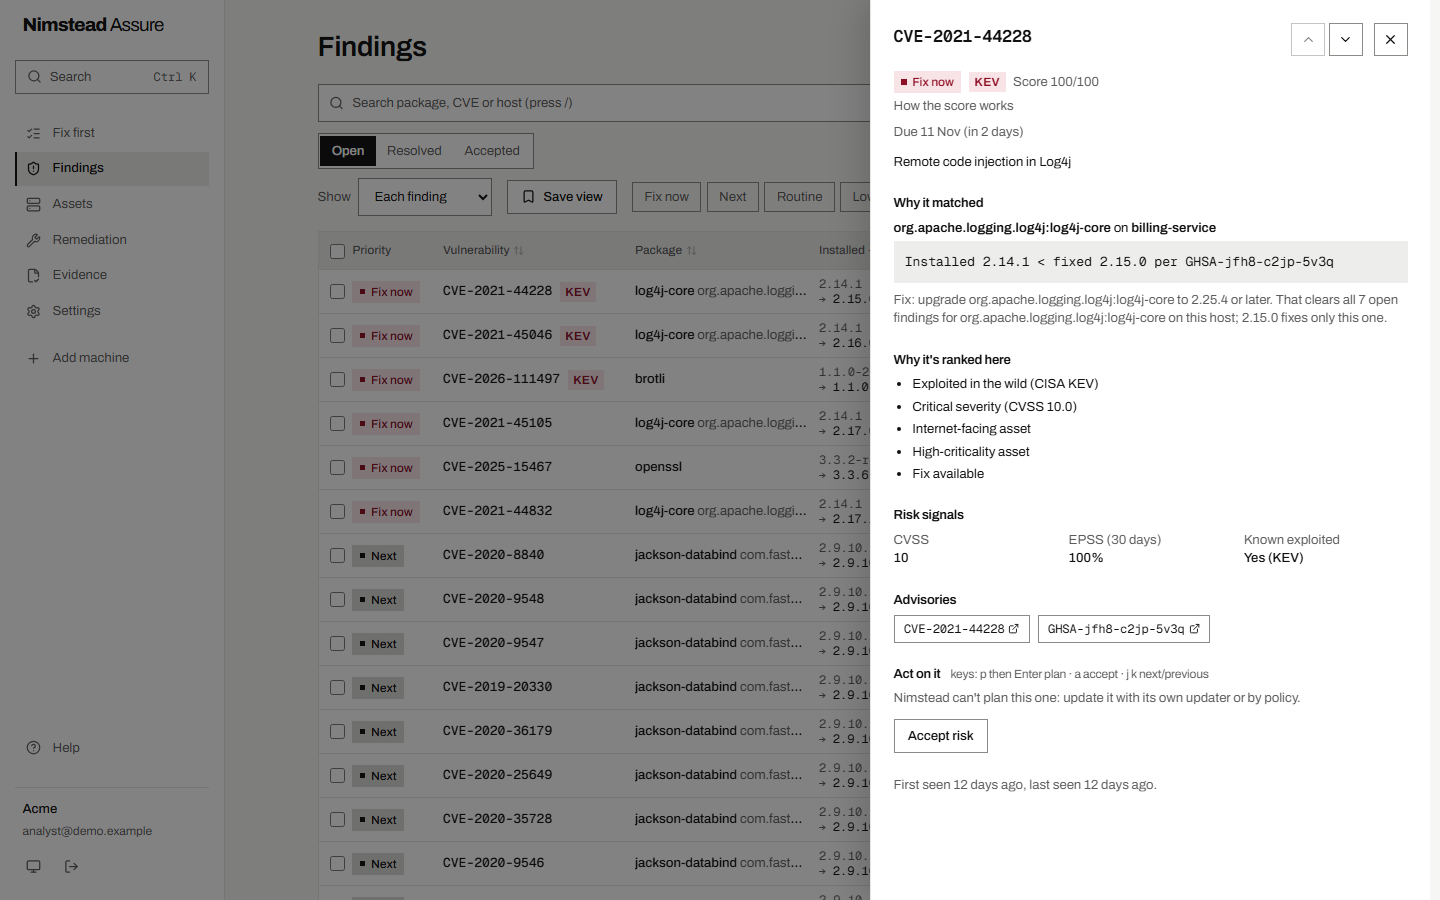
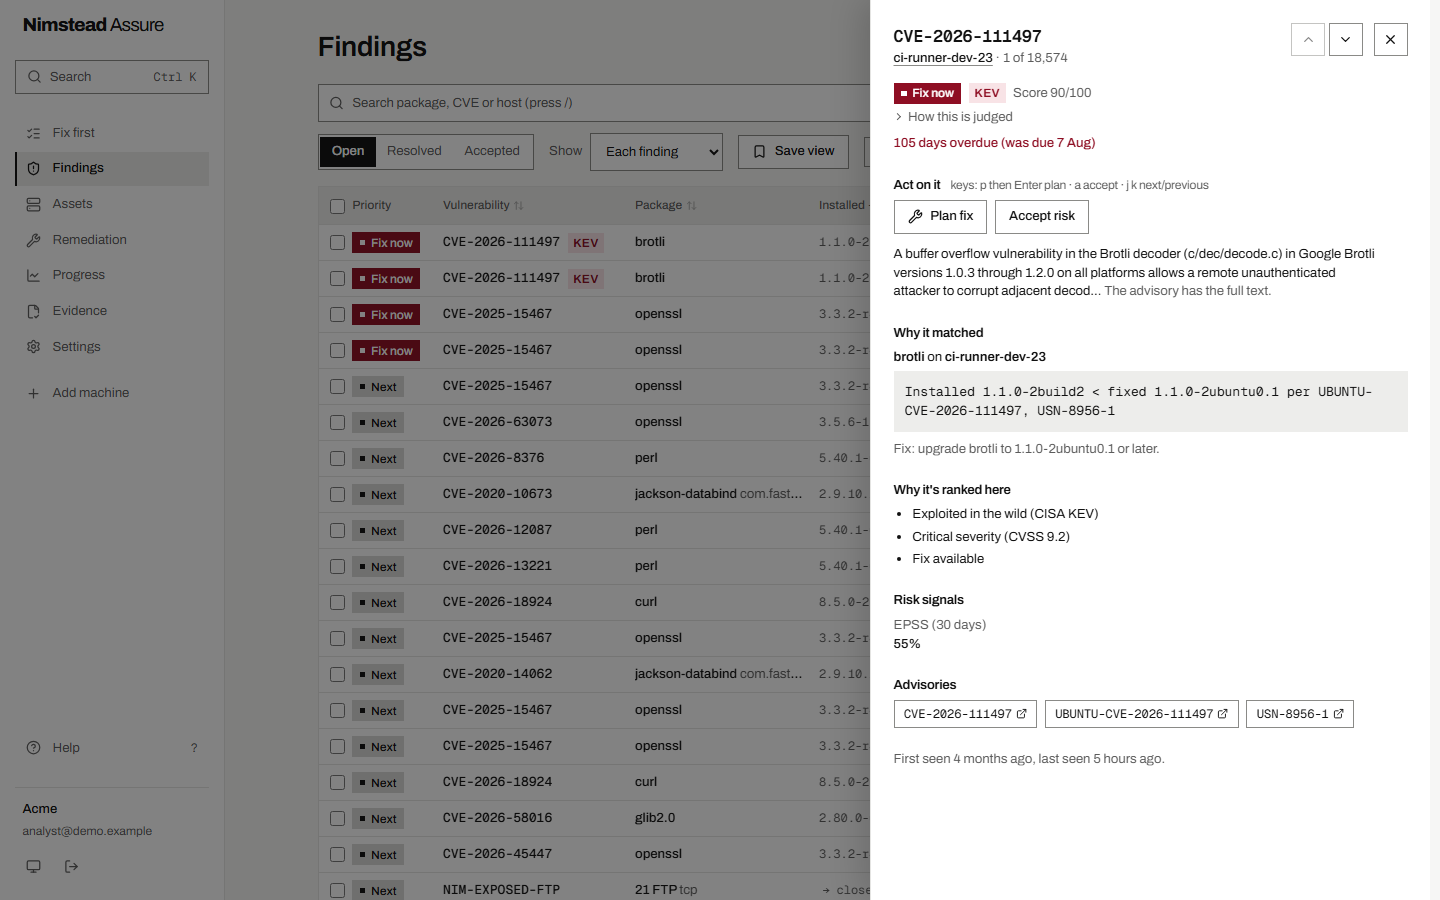
README: the 0.11.0 fleet demo, Progress first, owners and devices
Screenshots now come from the 206-machine demo on 0.11.0: its five real
hosts' inventories cloned, 200 devices with no agent, owners by role and
120 days of simulated history (said so in the README). New: Progress in
full and at phone width in dark mode, devices with no agent; every alt
text names what the shot shows. Early-access note says v0.11.

sandbox/progress_demo.py: owners by role (web/api -> Platform, billing/auth
-> Payments, ...), devices and a few dev machines unowned; --to-now moves
the demo's own times (reports, devices, jobs) to today and spreads
reporting machines over the last few hours; a finding's last-seen is its
machine's last report. web/scripts/readme-shots.mjs shoots the fleet demo
(NIMSTEAD_DEMO_LOGIN names the login file).

diff --git a/sandbox/progress_demo.py b/sandbox/progress_demo.py
@@ -3,29 +3,45 @@
 The demo's findings are real (real inventories, real advisories), but they were all detected in one sitting, so every
 line on Progress is flat. This replays a simulated history over them: each finding is detected at some point in the
 last DAYS days (most at the first enrolment), fixed after a time that depends on its priority (or not yet), and a few
-come back or are accepted. Owners go on the assets. The org's ledger is rebuilt in time order with a valid hash chain,
-and every finding row ends in the state its history says, so Progress, Findings and the evidence pack agree.
+come back or are accepted. Owners go on the machines by their role (`web-prod-02` is Platform's), a few dev machines
+and the devices with no agent left unowned. The org's ledger is rebuilt in time order with a valid hash chain, and every
+finding row ends in the state its history says, so Progress, Findings and the evidence pack agree. --to-now first moves
+the demo's own times (reports, devices, jobs) forward so its newest report is minutes old, keeping the gaps between them.
 
 The history is simulated: say so wherever its screenshots are shown. Run it on a copy, never a real server's database,
 and point the server at a fresh checkpoint directory (the old checkpoints sign the old chain).
 
-    cd api && uv run python ../sandbox/progress_demo.py sqlite:///path/to/copy.db [--days 120] [--seed 146]
+    cd api && uv run python ../sandbox/progress_demo.py sqlite:///path/to/copy.db [--days 120] [--seed 146] [--to-now]
 """
 
 import argparse
 import random
 from datetime import UTC, datetime, timedelta
 
-from sqlalchemy import delete, select
+from sqlalchemy import delete, func, select
 from sqlalchemy.orm import sessionmaker
 
-from nimstead.db import Asset, Finding, LedgerEntry, Org, make_engine
+from nimstead.db import Asset, Container, Finding, LedgerEntry, Neighbour, Org, RemediationJob, ScanRecord, make_engine
 from nimstead.evidence import GENESIS
 from nimstead.verify_pack import entry_hash
 
-TEAMS = ["Payments", "Platform", "IT", "Data"]
-FIXED_SHARE = {"fix-now": 0.96, "next": 0.88, "planned": 0.65, "low": 0.4}  # ever fixed
-MEAN_DAYS = {"fix-now": 6, "next": 14, "planned": 30, "low": 55}  # how long a fix takes, on average
+TEAMS = ["Payments", "Platform", "IT", "Data"]  # for names with no role below, in turn
+ROLES = {"web": "Platform", "api": "Platform", "edge": "Platform", "cache": "Platform", "queue": "Platform", "worker": "Platform",
+         "billing": "Payments", "auth": "Payments", "db": "Data", "files": "Data", "mail": "IT Operations", "vpn": "IT Operations",
+         "bastion": "IT Operations", "monitor": "IT Operations", "ci": "Developer Tools", "build": "Developer Tools"}
+# the demo's own times, moved together by --to-now (findings and the ledger are rebuilt from the history instead)
+SHIFT = [(Asset, ("first_seen", "last_seen", "last_inventory_at", "verified_at", "silent_alerted_at")),
+         (Neighbour, ("first_seen", "last_seen")), (Container, ("first_seen", "last_seen")),
+         (RemediationJob, ("created", "updated")), (ScanRecord, ("created",))]
+
+
+def owner_of(asset: Asset, i: int) -> str | None:
+    """A machine's team by the role in its name; a few dev machines and every device with no agent have none."""
+    if asset.kind == "device" or ("-dev-" in asset.hostname and i % 3 == 0):
+        return None
+    return ROLES.get(asset.hostname.split("-")[0]) or TEAMS[i % len(TEAMS)]
+FIXED_SHARE = {"fix-now": 0.96, "next": 0.9, "planned": 0.78, "low": 0.6}  # ever fixed: a programme paying down its backlog
+MEAN_DAYS = {"fix-now": 6, "next": 12, "planned": 24, "low": 40}  # how long a fix takes, on average
 
 
 def iso(t: datetime) -> str:
@@ -35,7 +51,7 @@ def iso(t: datetime) -> str:
 def simulate(rng: random.Random, priority: str, now: datetime, days: int) -> list[tuple[datetime, str]]:
     """One finding's events, in time order, all before now."""
     start = now - timedelta(days=days)
-    if rng.random() < 0.7:  # found at the first enrolment
+    if rng.random() < 0.78:  # found at the first enrolment
         t = start + timedelta(hours=rng.uniform(0, 48))
     else:  # found later: new advisories, new machines, new software
         t = start + timedelta(days=rng.uniform(2, days - 0.5))
@@ -59,13 +75,26 @@ def main() -> None:
     ap.add_argument("db", help="SQLAlchemy URL of a copy of a demo database with one organisation")
     ap.add_argument("--days", type=int, default=120)
     ap.add_argument("--seed", type=int, default=146)
+    ap.add_argument("--to-now", action="store_true", help="move the demo's report, device and job times so its newest report is minutes old")
     a = ap.parse_args()
     rng = random.Random(a.seed)  # noqa: S311 - a fixed seed, so the screenshots can be made again
     s = sessionmaker(make_engine(a.db))()
     (org_id,) = s.execute(select(Org.id)).one()
     now = datetime.now(UTC).replace(tzinfo=None) - timedelta(minutes=5)
+    if a.to_now and (newest := s.scalar(select(func.max(Asset.last_seen)).where(Asset.org_id == org_id, Asset.kind == "host"))):
+        delta = now - newest
+        for model, cols in SHIFT:  # in Python: SQLite keeps datetimes as text, so SQL can't add an interval to them
+            for row in s.scalars(select(model)):
+                for col in cols:
+                    if (v := getattr(row, col)) is not None:
+                        setattr(row, col, v + delta)
+        # agents report every 6 hours: a machine that was reporting reported in the last few hours, not all at one instant
+        for h in s.scalars(select(Asset).where(Asset.org_id == org_id, Asset.kind == "host", Asset.last_seen > now - timedelta(hours=14))):
+            h.last_seen = h.last_inventory_at = now - timedelta(hours=rng.uniform(0.05, 5.5))
+        print(f"moved the demo's times forward by {delta}")
     for i, asset in enumerate(s.scalars(select(Asset).where(Asset.org_id == org_id).order_by(Asset.hostname))):
-        asset.owner = None if i % 7 == 6 else TEAMS[i % len(TEAMS)]  # a few left without an owner
+        asset.owner = owner_of(asset, i)
+    seen = dict(s.execute(select(Asset.id, Asset.last_seen).where(Asset.org_id == org_id)).all())
     rows = []
     for f in s.scalars(select(Finding).where(Finding.org_id == org_id)):
         events = simulate(rng, f.priority if f.priority in FIXED_SHARE else "low", now, a.days)
@@ -78,6 +107,7 @@ def main() -> None:
             elif kind == "finding_accepted":
                 state = "accepted"
         f.status, f.first_seen, f.resolved_at = state, opened, resolved
+        f.last_seen = resolved if resolved else max(opened, seen.get(f.asset_id) or now)  # still there at its machine's last report
         f.accepted_until = now + timedelta(days=60) if state == "accepted" else None
         data = {"host": "", "vuln_id": f.vuln_id, "package": f.package, "installed_version": f.installed_version,
                 "fixed_version": f.fixed_version, "priority": f.priority}

diff --git a/README.md b/README.md
@@ -10,12 +10,12 @@
   <img alt="PostgreSQL 17" src="https://img.shields.io/badge/postgresql-17-111111">
 </p>
 
-<p align="center"><img src="docs/images/home-1440.png" alt="Fix first: 1,183 open findings across five real Linux machines and an application, two fixes that need a look, and the upgrades that clear the most risk" width="900"></p>
+<p align="center"><img src="docs/images/home-1440.png" alt="Fix first on a 206-machine fleet: 18,574 open findings, 1,783 overdue, three fixes that didn't work, and the upgrades that clear the most risk, the first a known-exploited brotli fix" width="900"></p>
 
-Nimstead Assure scans your Linux and Windows machines and your applications' dependencies for known vulnerabilities, tells you which few upgrades clear the most real risk, can apply them for you with automatic rollback, and keeps a tamper-evident record your auditor can check without asking us.
+Nimstead Assure scans your Linux and Windows machines, their containers and your applications' dependencies for known vulnerabilities, tells you which few upgrades clear the most real risk, can apply them for you with automatic rollback, shows whether your risk is going down and which team is behind, and keeps a tamper-evident record your auditor can check without asking us.
 
 > [!NOTE]
-> **Early access (v0.7).** Everything below works and is proven on real systems, but expect rough edges and breaking changes before 1.0. Until a release is promoted to the stable channel (none has been yet), set `NIMSTEAD_UPDATE_CHANNEL=preview` (or `beta` once one exists) in `.env` so your server hears about updates. Run it on test machines first; automated fixes stay limited to machines you enrol as test machines until you turn them on for production. Tell us what breaks: [open an issue](https://github.com/Nimstead/assure/issues/new/choose) or email dev@nimstead.systems.
+> **Early access (v0.11).** Everything below works and is proven on real systems, but expect rough edges and breaking changes before 1.0. Until a release is promoted to the stable channel (none has been yet), set `NIMSTEAD_UPDATE_CHANNEL=preview` (or `beta` once one exists) in `.env` so your server hears about updates. Run it on test machines first; automated fixes stay limited to machines you enrol as test machines until you turn them on for production. Tell us what breaks: [open an issue](https://github.com/Nimstead/assure/issues/new/choose) or email dev@nimstead.systems.
 
 ## What it does
 
@@ -30,25 +30,25 @@ Nimstead Assure scans your Linux and Windows machines and your applications' dep
 - **Shows whether it's working, and who is behind.** Give each machine an owner (or let its install command do it), and Progress shows day by day whether overdue, fix-now and open findings are falling, whether fixes keep up with what's found, and which team has the most overdue. It's rebuilt from the same signed ledger the evidence packs use, so its numbers match theirs, and a weekly summary can go to Slack or email.
 - **Watches your edge, and what's on your network.** Internet hosts you prove you own (DNS TXT) are checked for exposed risky services, weak TLS, source and config files served by mistake, and known-bad service versions, and a finding there closes only when the scan proves it fixed. Devices on your networks with no agent are listed by maker, from your machines' own network tables, without sending them anything; a machine you opt in locally can check its neighbours for exposed services too.
 - **Keeps itself current, safely.** Agents update themselves only from releases signed by the Nimstead release key, which your server never holds, so a compromised server can't push code to your machines. The server tells you when a release is out, and `deploy/update.sh` installs it with a database backup and automatic rollback. Machines that stop reporting are flagged.
-- **Fits your organisation.** OIDC single sign-on with verified domains, admin and read-only roles, webhook and email alerts for failed fixes and new urgent findings, keys in Vault and checkpoints in object-locked S3.
+- **Fits your organisation.** An owner (team) on every asset, set once on the install command; OIDC single sign-on with verified domains, admin and read-only roles, webhook and email alerts for failed fixes and new urgent findings, keys in Vault and checkpoints in object-locked S3.
 
-Every screenshot here is from a real run ([`sandbox/demo.py`](sandbox/demo.py)): five disposable Linux machines (Ubuntu 24.04, Debian 13, AlmaLinux 9, Alpine 3.21) running the real agent, real vulnerability feeds, an application SBOM, and real fixes on those machines. The fleet view below is the same demo grown to 206 machines by cloning those real inventories.
+The screenshots come from a demo built on a real run ([`sandbox/demo.py`](sandbox/demo.py)): five disposable Linux machines (Ubuntu 24.04, Debian 13, AlmaLinux 9, Alpine 3.21) running the real agent against real vulnerability feeds, with real fixes, a real rollback and a fix the dry run refused. It was grown to 206 machines by cloning those real inventories, with 200 devices found in the machines' own network tables. Its curl rollout and its 120 days of history are simulated over those real findings ([`sandbox/progress_demo.py`](sandbox/progress_demo.py)), so Progress has a past to show; everything on screen is the product's own output.
 
-| A fix verified, a fix rolled back when it broke a service, and one the dry run refused | Why a finding matched, and why it's ranked there |
+| Is it working, and who is behind? Progress over 90 days, rebuilt from the signed ledger |
+|---|
+| ![Progress: open findings fell from 23,533 to 18,574 in 90 days and 1,783 are overdue; six small charts for overdue, fix now, next, routine, low and accepted risk; weekly bars of findings opened beside findings resolved; owners ordered by overdue findings, IT Operations first with 703, each with their change, findings resolved on time and mean time to resolve; the ledger entry it was rebuilt up to](docs/images/progress-full-1440.png) |
+
+| A rollout canary first, a fix the dry run refused, and one rolled back when it broke a service | Why a finding matched, and why it's ranked there |
 |---|---|
-| ![Remediation: acl awaiting approval with each package's from and to versions; openssl on Alpine refused because it would also change musl, with Plan again including musl; openssl on Debian rolled back after billing-api.service kept restarting, with advice before planning it again; both marked self-approved](docs/images/remediation-1440.png) | ![Log4Shell (CVE-2021-44228) on billing-service: installed 2.14.1, fixed 2.15.0, with 2.25.4 named as the upgrade that clears all seven open findings; ranked by CISA KEV, CVSS 10, internet-facing and high criticality](docs/images/findings-1440.png) |
+| ![Remediation: a curl rollout with both canaries fixed and one broad machine that didn't work, held for review; openssl on edge-proxy-01 refused because it would also have changed musl, with Plan again including musl; openssl on db-prod-01 rolled back after billing-api kept restarting](docs/images/remediation-1440.png) | ![A known-exploited brotli finding on ci-runner-dev-23: installed 1.1.0-2build2 is older than the fixed 1.1.0-2ubuntu0.1 per Ubuntu's advisory; ranked fix now by CISA KEV, CVSS 9.2 and a fix being available; 105 days overdue](docs/images/findings-1440.png) |
 
-| Every machine, filtered and sorted by urgency | Controls an auditor can check | Light and dark, down to phone width |
+| Every machine with its owner, sorted by urgency | 200 devices with no agent, from your machines' own network tables |
+|---|---|
+| ![Assets: 206 machines and an application, each line naming its OS, criticality, owner team and last report, with open findings by priority and filters for owner and criticality](docs/images/assets-1440.png) | ![Devices with no agent: printers, cameras, a firewall and switches listed by maker and MAC, which machines saw them, and what the network check found on them](docs/images/devices-1440.png) |
+
+| The fixes, by package, across the fleet | Controls an auditor can check | Light and dark, down to phone width |
 |---|---|---|
-| ![Assets: five Linux machines and an application with search, filters, sort and open findings by priority; ring and health checks are set in each machine's drawer](docs/images/assets-1440.png) | ![Evidence: Cyber Essentials, ISO 27001, NIST, PCI DSS, SOC 2 and CIS control status, with a note that the period rests on one fix and RA-5 met with five machines not reporting now](docs/images/evidence-1440.png) | ![Fix first in dark mode at 375px](docs/images/home-375-dark.png) |
-
-| 44,000 findings on 206 machines: three selected, one upgrade to plan across all of them |
-|---|
-| ![Findings at fleet scale: 16,854 fixable results with sortable columns, a saved-view button and three brotli findings selected; the bar at the bottom offers Accept risk and Plan 1 fix on 3 machines](docs/images/findings-fleet-1440.png) |
-
-| Progress over 90 days: overdue first, the weekly flow of found and fixed, and each owner's numbers. The findings are the 206-machine demo's real ones; the history is simulated over them by [`sandbox/progress_demo.py`](sandbox/progress_demo.py) |
-|---|
-| ![Progress: open findings rose from 26,844 to 27,235 in 90 days with 2,534 overdue; six small charts for overdue, fix now, next, routine, low and accepted risk; weekly bars of findings opened and resolved; a table of owners ordered by overdue findings](docs/images/progress-1440.png) |
+| ![Findings grouped by package: brotli first with a known-exploited fix on one machine, then jackson-databind, openssl on 34 machines, perl, curl on 88, each with the version that fixes it](docs/images/findings-fleet-1440.png) | ![Evidence: Cyber Essentials, ISO 27001, NIST, PCI DSS, SOC 2 and CIS control status for the last 90 days, with overdue findings and mean time to remediate](docs/images/evidence-1440.png) | ![Progress in dark mode at 375px](docs/images/progress-375-dark.png) |
 
 ## Get started
 
